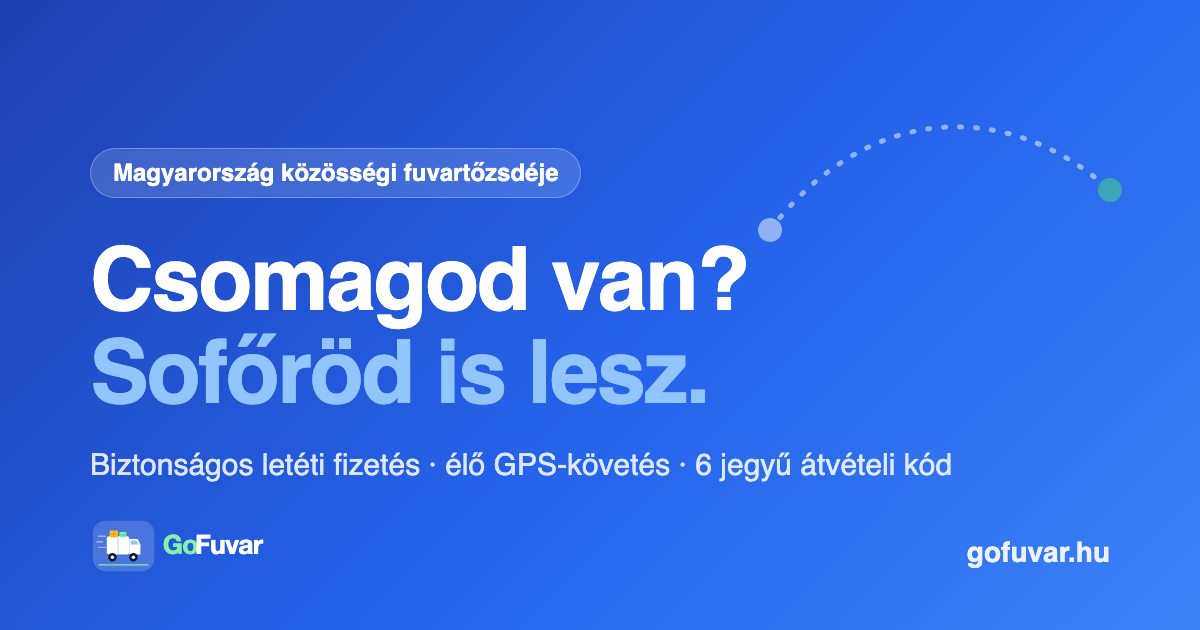
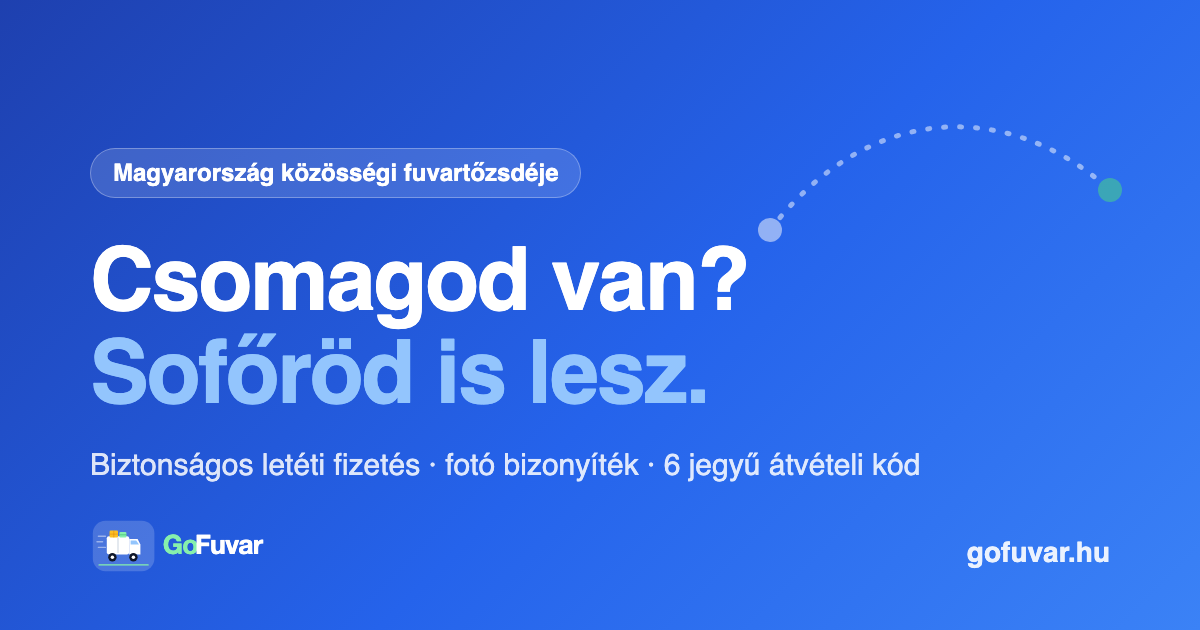
Őszinte kommunikáció: az élő GPS "Hamarosan" — nem launch-ígéret
Az élő GPS-követés a mobilapppal érkezik (Phase 6), a web-first
launchkor még nincs. Olyat ígérni a nyitóoldalon, ami nem működik,
pont a bizalmat égetné, amire a platform épül. Ezért:

- Landing feature-kártya: MARAD, de "Hamarosan" jelvénnyel és jövő
  időben ("a mobilalkalmazással érkezik") — roadmap-jelzésnek jó
- A fő ígéret-helyekről KIKERÜLT: hero-alcím, "Hogyan működik?" 3.
  lépés (helyette: a címzett SMS-ben kapja a követési linket + kódot),
  Feladó-lista, root/OG/Twitter meta, hozasd-el leírás, OG-kép
  újragenerálva
- Termékben: az örökké pörgő "Várakozás a sofőr pozíciójára" helyett
  "Élő GPS-követés hamarosan — a GoFuvar mobilapp érkezésével"
- AI chatbot tudás (gemini.js): a GPS-pont "HAMAROSAN, fejlesztés
  alatt"-ra írva — a chatbot se ígérjen olyat, ami nincs

Ellenőrizve: build, tsc, 27 unit, 9/9 E2E, screenshot.

Changed region(s): [[0.37, 0.6937, 0.8017, 0.7841]]

diff --git a/web/src/components/LandingPage.tsx b/web/src/components/LandingPage.tsx
@@ -13,13 +13,15 @@ import {
 } from 'lucide-react';
 import { useCurrentUser } from '@/lib/auth';
 
-const FEATURES: { icon: LucideIcon; tint: string; title: string; desc: string }[] = [
+const FEATURES: { icon: LucideIcon; tint: string; title: string; desc: string; soon?: boolean }[] = [
   { icon: Gavel, tint: 'var(--primary)', title: 'Licitálható fuvarok',
     desc: 'Hirdesd meg a csomagodat, és a sofőrök licitálnak rá. Te döntöd el, melyik ajánlatot fogadod el.' },
   { icon: Route, tint: '#7c3aed', title: 'Fix áras útvonalak',
     desc: 'A sofőrök meghirdetik az útjukat fix áron. Foglalj helyet a csomagodnak egyetlen kattintással.' },
-  { icon: MapPin, tint: '#db2777', title: 'Élő GPS követés',
-    desc: 'A fuvar elindulása után valós időben követed a sofőröd pozícióját a térképen.' },
+  // Az élő GPS a mobilapppal érkezik — a launchkor még nincs, ezért
+  // ŐSZINTÉN jelöljük: "Hamarosan" badge, jövő időben fogalmazva.
+  { icon: MapPin, tint: '#db2777', title: 'Élő GPS követés', soon: true,
+    desc: 'A GoFuvar mobilalkalmazással érkezik: valós időben követheted majd a sofőröd pozícióját a térképen.' },
   { icon: ShieldCheck, tint: 'var(--success)', title: 'Barion letét (Escrow)',
     desc: 'A fuvardíj a Barion letétben pihen, amíg a csomag bizonyítottan megérkezik. Biztonságos mindkét félnek.' },
   { icon: Camera, tint: '#0891b2', title: 'Fotó bizonyíték',
@@ -36,8 +38,8 @@ const STEPS = [
     desc: 'Add meg a felvételi és lerakodási címet, a csomag méreteit és a javasolt árat. Fotót is csatolhatsz.' },
   { num: '2', title: 'Válassz sofőrt', dot: 'var(--primary)',
     desc: 'Fogadd el a legjobb licitet, vagy foglalj fix áras útvonalon. Fizesd ki biztonságosan a Barion letétbe.' },
-  { num: '3', title: 'Kövesd és vedd át', dot: 'var(--success)',
-    desc: 'Kövesd a sofőröd élőben. Az átvételkor add át a 6 jegyű kódot — a sofőr kifizetése automatikus.' },
+  { num: '3', title: 'Vedd át a kóddal', dot: 'var(--success)',
+    desc: 'A címzett SMS-ben kapja a követési linket és a kódot. Az átvételkor add át a 6 jegyű kódot — a sofőr kifizetése automatikus.' },
 ];
 
 const TRUST = [
@@ -104,7 +106,7 @@ export default function LandingPage() {
         }}>
           Hirdess meg egy fuvart és a sofőrök licitálnak rá — vagy foglalj
           helyet egy útba eső sofőr fix áras útvonalán. Biztonságos fizetés,
-          élő követés, fotó bizonyíték.
+          fotó bizonyíték, 6 jegyű átvételi kód.
         </p>
         <div style={{ display: 'flex', gap: 12, justifyContent: 'center', flexWrap: 'wrap' }}>
           <Link href="/bejelentkezes?mode=register" className="btn"
@@ -211,7 +213,17 @@ export default function LandingPage() {
                   <Icon size={22} color={f.tint} strokeWidth={2.2} />
                 </div>
                 <div>
-                  <h3 style={{ fontSize: 16, fontWeight: 700, margin: '0 0 4px' }}>{f.title}</h3>
+                  <h3 style={{ fontSize: 16, fontWeight: 700, margin: '0 0 4px', display: 'flex', alignItems: 'center', gap: 8, flexWrap: 'wrap' }}>
+                    {f.title}
+                    {f.soon && (
+                      <span style={{
+                        fontSize: 11, fontWeight: 700, letterSpacing: 0.3,
+                        background: 'var(--warning-light)', color: 'var(--text)',
+                        border: '1px solid var(--warning)',
+                        borderRadius: 999, padding: '2px 10px',
+                      }}>Hamarosan</span>
+                    )}
+                  </h3>
                   <p className="muted" style={{ fontSize: 13, lineHeight: 1.5, margin: 0 }}>{f.desc}</p>
                 </div>
               </div>
@@ -257,7 +269,7 @@ export default function LandingPage() {
               <li>Hirdesd meg a fuvart — a sofőrök licitálnak rá</li>
               <li>Vagy foglalj helyet egy fix áras útvonalon</li>
               <li>Fizess biztonságosan a Barion letétbe</li>
-              <li>Kövesd élőben a sofőröd a térképen</li>
+              <li>A címzett SMS-ben kapja a követési linket</li>
               <li>Add át a 6 jegyű kódot az átvételkor</li>
             </ul>
           </div>

diff --git a/web/app/layout.tsx b/web/app/layout.tsx
@@ -42,7 +42,7 @@ export const metadata: Metadata = {
     template: '%s | GoFuvar',
   },
   description:
-    'Hirdess meg egy fuvart és a sofőrök licitálnak rá, vagy foglalj helyet egy útba eső sofőr fix áras útvonalán. Biztonságos Barion letét, élő GPS követés, fotó bizonyíték, 6 jegyű átvételi kód. Ingyenes regisztráció.',
+    'Hirdess meg egy fuvart és a sofőrök licitálnak rá, vagy foglalj helyet egy útba eső sofőr fix áras útvonalán. Biztonságos Barion letét, fotó bizonyíték, 6 jegyű átvételi kód, SMS-értesítés a címzettnek. Ingyenes regisztráció.',
   keywords: [
     'fuvar', 'szállítás', 'csomag', 'költöztetés', 'sofőr', 'fuvartőzsde',
     'GoFuvar', 'közösségi szállítás', 'licit', 'fix áras fuvar',
@@ -51,7 +51,7 @@ export const metadata: Metadata = {
   metadataBase: new URL('https://gofuvar.hu'),
   openGraph: {
     title: 'GoFuvar – Közösségi fuvartőzsde',
-    description: 'Csomagod van? Sofőröd is lesz. Biztonságos fizetés, élő követés, fotó bizonyíték.',
+    description: 'Csomagod van? Sofőröd is lesz. Biztonságos fizetés, fotó bizonyíték, 6 jegyű átvételi kód.',
     type: 'website',
     locale: 'hu_HU',
     siteName: 'GoFuvar',
@@ -62,7 +62,7 @@ export const metadata: Metadata = {
   twitter: {
     card: 'summary_large_image',
     title: 'GoFuvar – Közösségi fuvartőzsde',
-    description: 'Csomagod van? Sofőröd is lesz. Biztonságos letéti fizetés, élő GPS-követés.',
+    description: 'Csomagod van? Sofőröd is lesz. Biztonságos letéti fizetés, 6 jegyű átvételi kód.',
     images: ['/og-image.png'],
   },
   manifest: '/manifest.webmanifest',

diff --git a/web/src/components/LiveTrackingMap.tsx b/web/src/components/LiveTrackingMap.tsx
@@ -92,7 +92,7 @@ export default function LiveTrackingMap({ job }: Props) {
         <strong>⚠️ Google Maps API kulcs hiányzik.</strong>
         <p className="muted" style={{ margin: '8px 0 0' }}>
           Állítsd be a <code>NEXT_PUBLIC_GOOGLE_MAPS_KEY</code> környezeti változót,
-          hogy lásd a térképet és az élő követést.
+          hogy lásd a térképet.
         </p>
       </div>
     );
@@ -196,7 +196,7 @@ export default function LiveTrackingMap({ job }: Props) {
       >
         <div>
           <span className="pill pill-progress" style={{ marginRight: 8 }}>
-            {driver ? '🔴 Élő követés aktív' : '⏳ Várakozás a sofőr pozíciójára'}
+            {driver ? '🔴 Élő követés aktív' : 'Élő GPS-követés hamarosan — a GoFuvar mobilapp érkezésével'}
           </span>
           {updatedAt && (
             <span className="muted" style={{ fontSize: 12 }}>

diff --git a/backend/src/services/gemini.js b/backend/src/services/gemini.js
@@ -214,7 +214,7 @@ A csomagod védelme 5 rétegű:
 2. FOTÓ BIZONYÍTÉK: A sofőr felvételkor és lerakáskor kötelezően fotóz
 3. 6 JEGYŰ ÁTVÉTELI KÓD: Csak a címzett tudja, a sofőr ezzel zárja le
 4. QR KÓD: A címzett megmutatja telefonján → sofőr beolvassa → kész
-5. GPS KÖVETÉS: Élőben látod a sofőr pozícióját + becsült érkezési idő
+5. GPS KÖVETÉS: HAMAROSAN érkezik a GoFuvar mobilalkalmazással — jelenleg fejlesztés alatt. Addig a címzett SMS-értesítést kap, és a 6 jegyű kód + fotó igazolja a kézbesítést
 
 ═══════════════════════════════════════
 ÁTVÉTELI KÓD ÉS QR KÓD

diff --git a/web/app/hozasd-el/page.tsx b/web/app/hozasd-el/page.tsx
@@ -6,7 +6,7 @@ import HozasdElTool from '@/components/HozasdElTool';
 export const metadata: Metadata = {
   title: 'Hozasd el az online vásárlásod — GoFuvar',
   description:
-    'IKEA-ban, OBI-ban, Praktikerben vagy a Jófogáson vásároltál bútort vagy nagyobb tárgyat? Másold be a termék linkjét, és a GoFuvar sofőrjei elhozzák — biztonságos letét, élő követés, fotó + 6 jegyű átvételi kód.',
+    'IKEA-ban, OBI-ban, Praktikerben vagy a Jófogáson vásároltál bútort vagy nagyobb tárgyat? Másold be a termék linkjét, és a GoFuvar sofőrjei elhozzák — biztonságos letét, fotó bizonyíték + 6 jegyű átvételi kód.',
   keywords: [
     'ikea szállítás', 'obi szállítás', 'praktiker szállítás', 'jófogás szállítás',
     'bútorszállítás', 'használt bútor elszállítás', 'online vásárlás fuvar', 'GoFuvar',